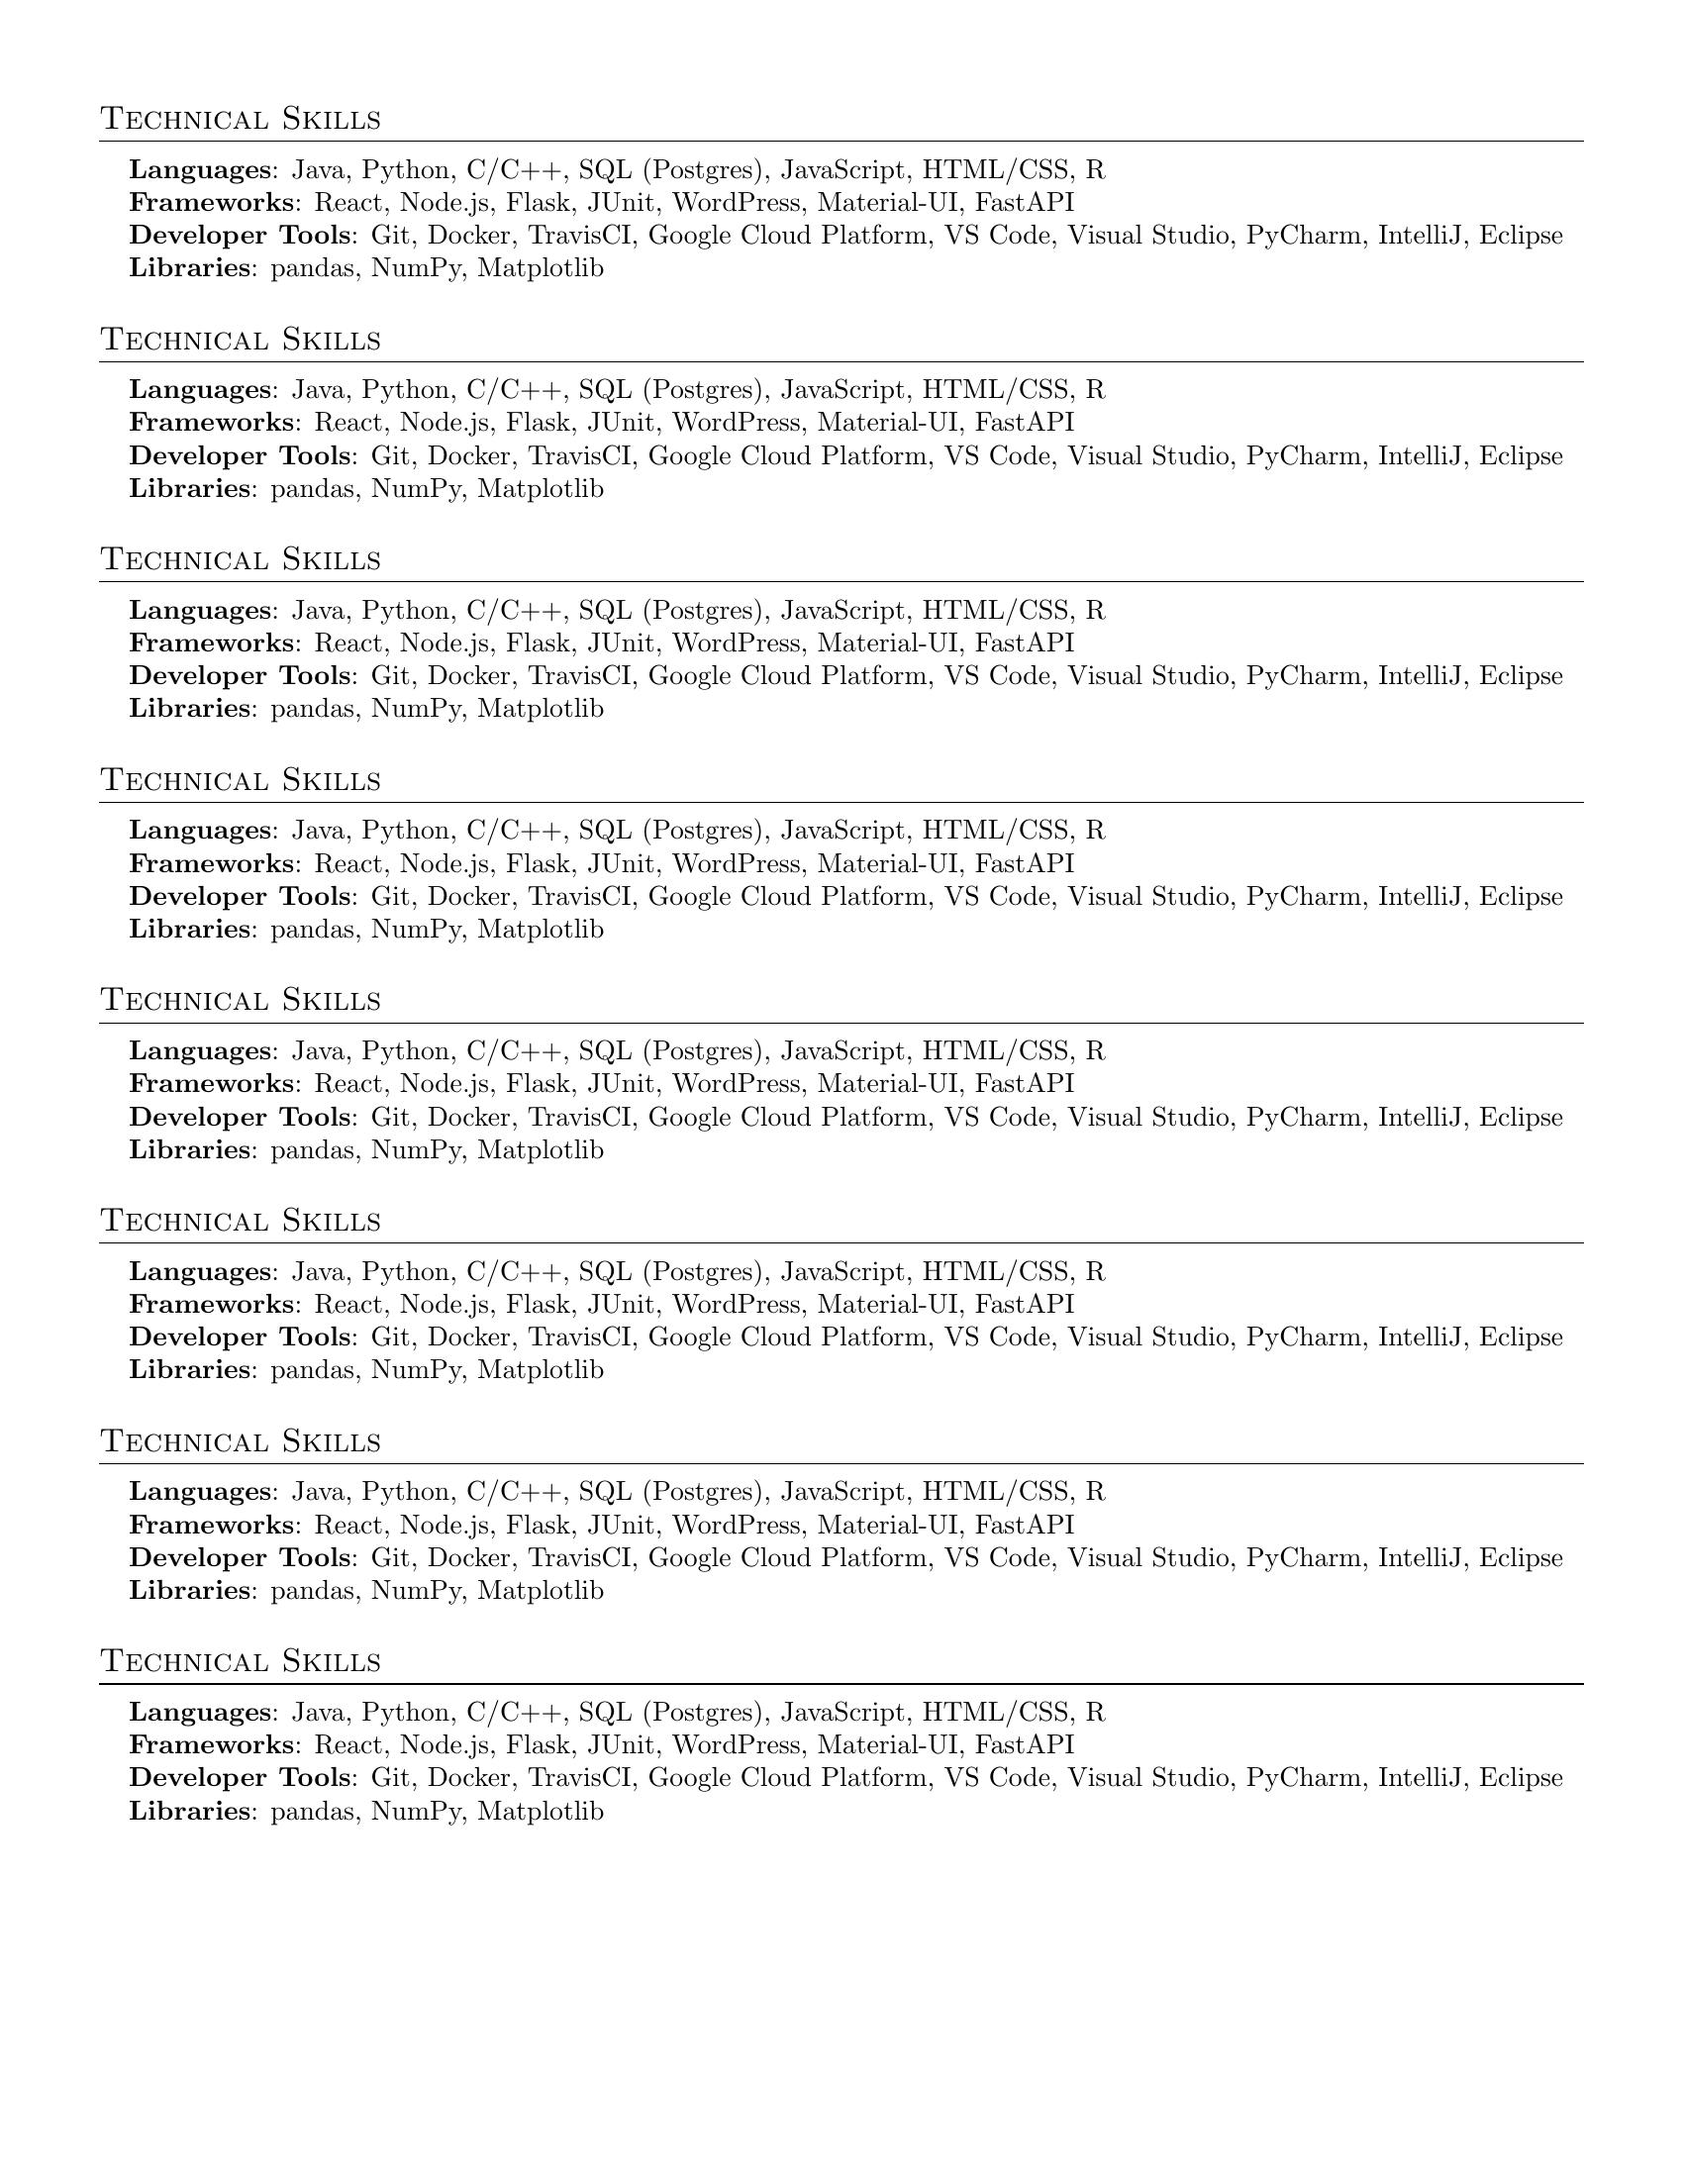
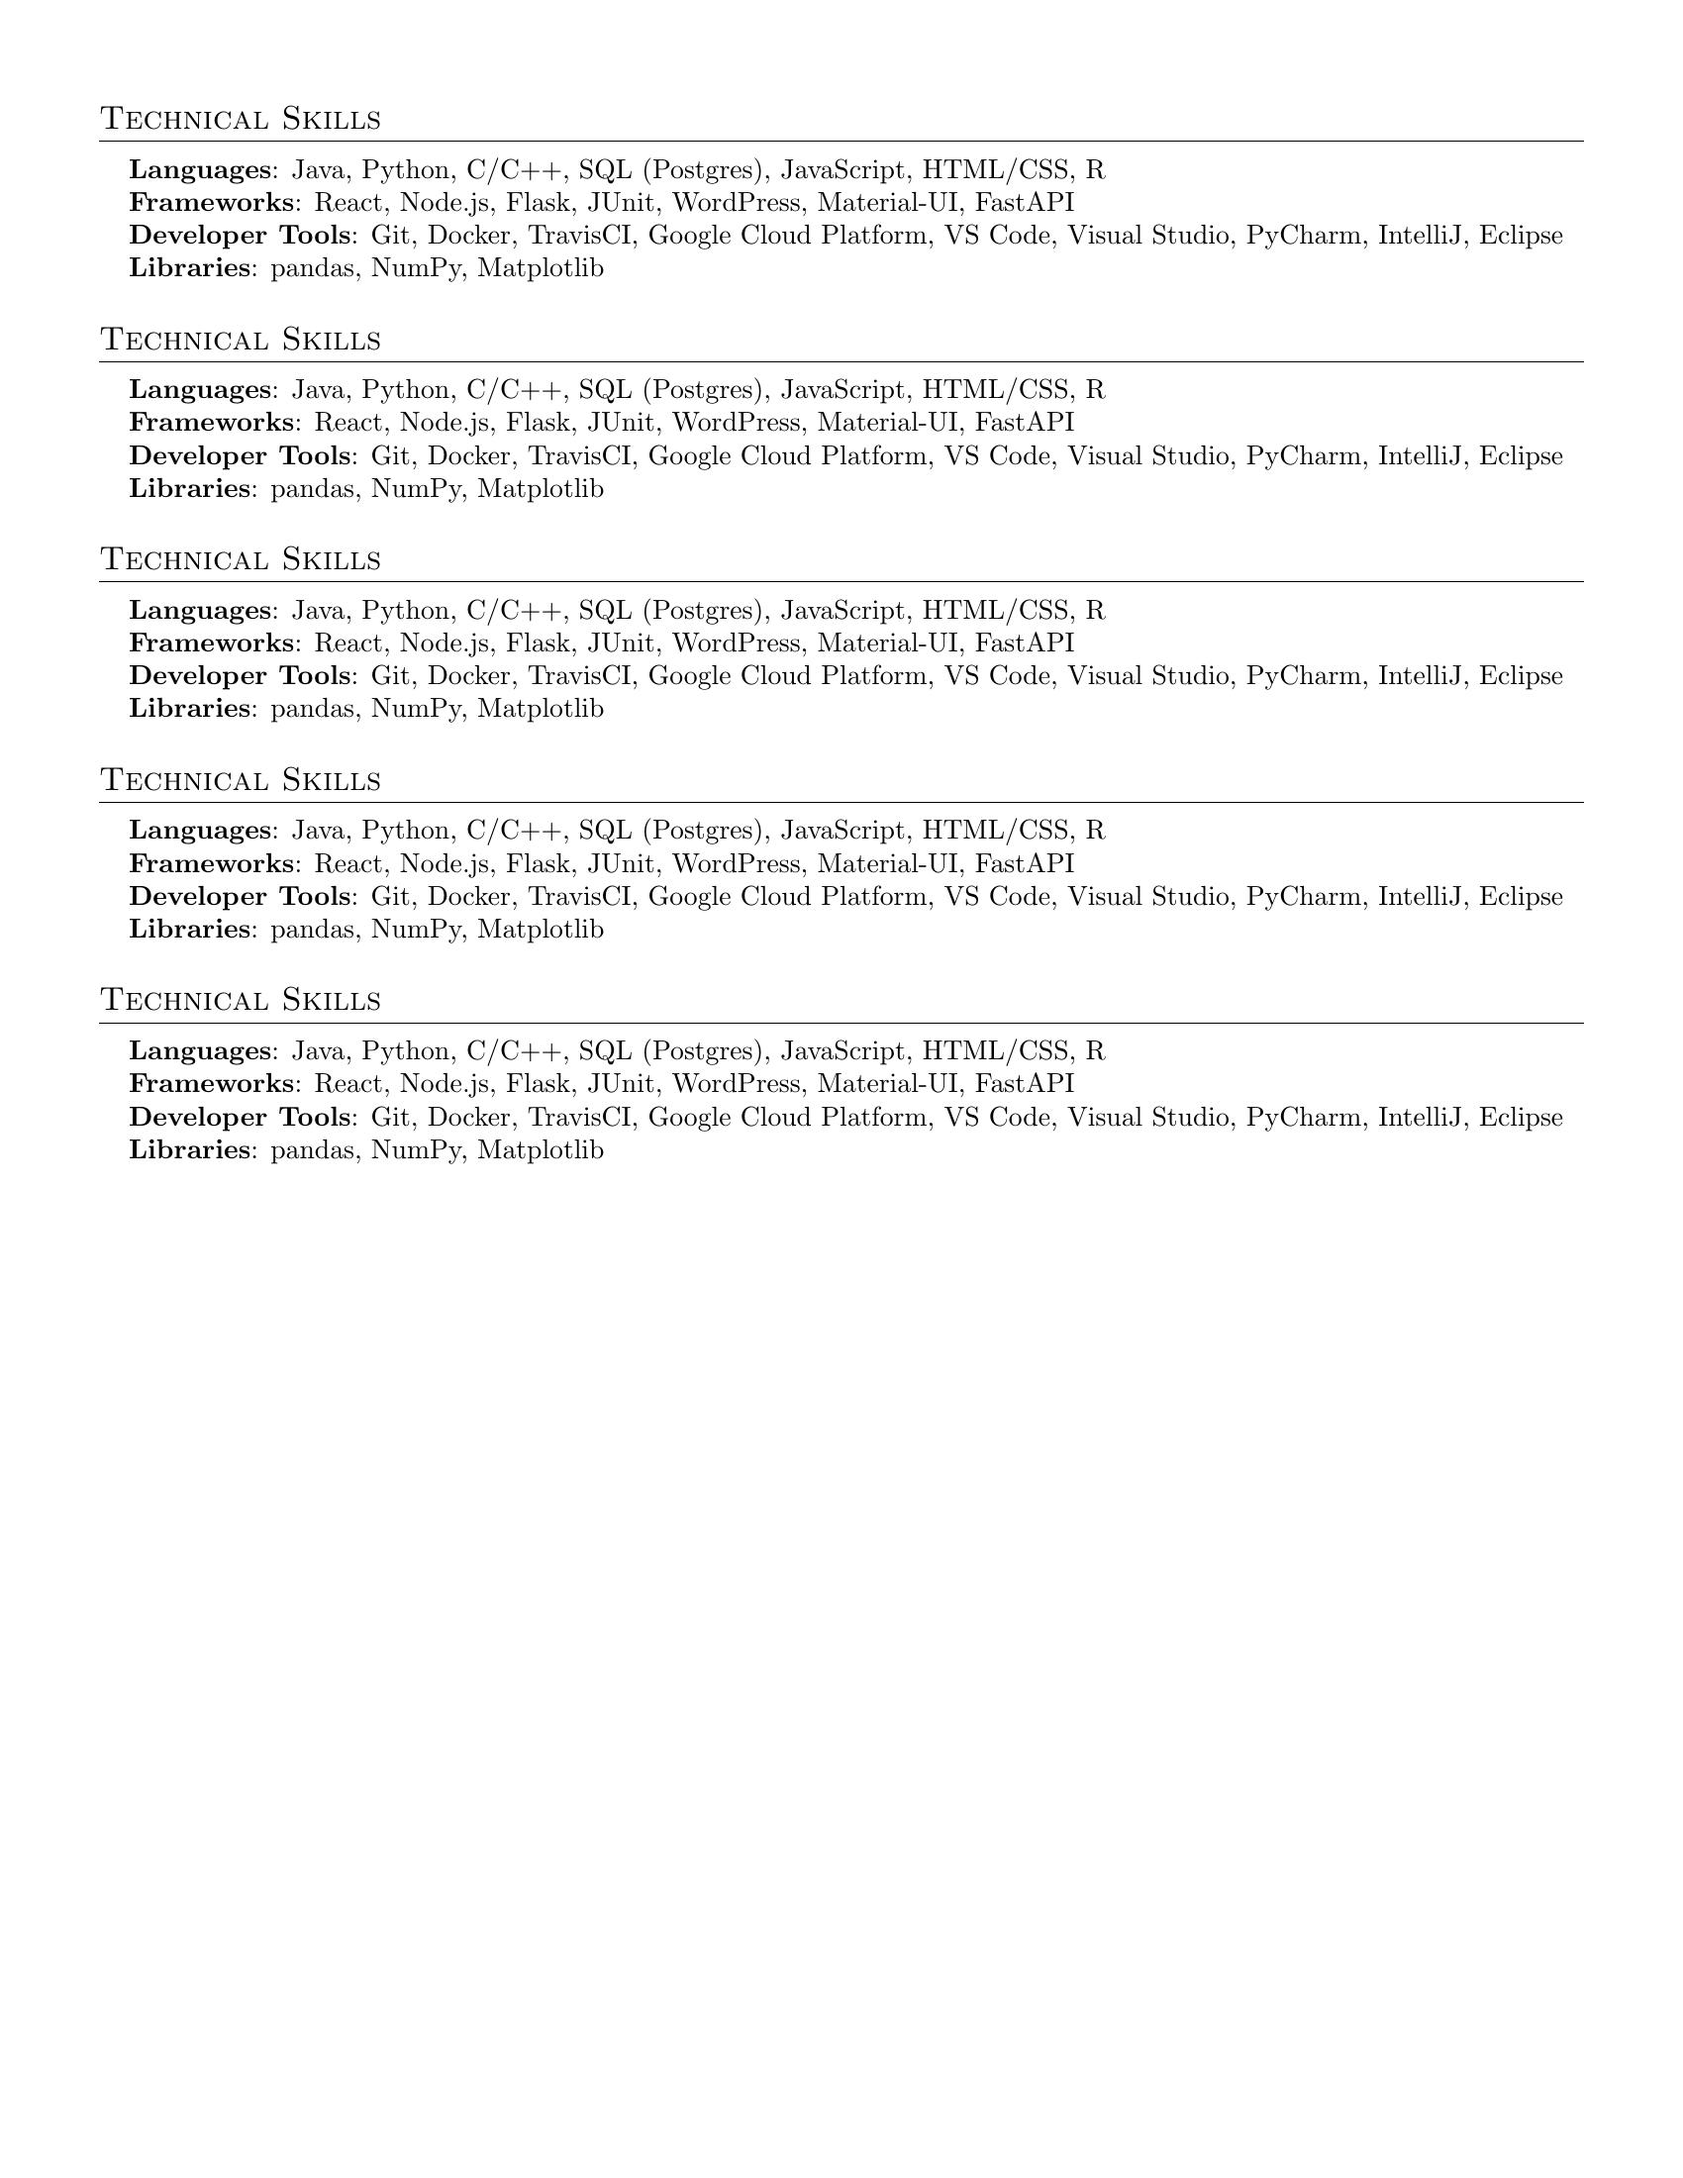
testing hook

diff --git a/main.tex b/main.tex
@@ -212,7 +212,6 @@
      \textbf{Libraries}{: pandas, NumPy, Matplotlib}
     }}
  \end{itemize}
-%
 %-----------PROGRAMMING SKILLS-----------
 \section{Technical Skills}
  \begin{itemize}[leftmargin=0.15in, label={}]
@@ -222,96 +221,51 @@
      \textbf{Developer Tools}{: Git, Docker, TravisCI, Google Cloud Platform, VS Code, Visual Studio, PyCharm, IntelliJ, Eclipse} \\
      \textbf{Libraries}{: pandas, NumPy, Matplotlib}
     }}
- \end{itemize}%
-%-----------PROGRAMMING SKILLS-----------
-\section{Technical Skills}
- \begin{itemize}[leftmargin=0.15in, label={}]
-    \small{\item{
-     \textbf{Languages}{: Java, Python, C/C++, SQL (Postgres), JavaScript, HTML/CSS, R} \\
-     \textbf{Frameworks}{: React, Node.js, Flask, JUnit, WordPress, Material-UI, FastAPI} \\
-     \textbf{Developer Tools}{: Git, Docker, TravisCI, Google Cloud Platform, VS Code, Visual Studio, PyCharm, IntelliJ, Eclipse} \\
-     \textbf{Libraries}{: pandas, NumPy, Matplotlib}
-    }}
- \end{itemize}
-%-----------PROGRAMMING SKILLS-----------
-\section{Technical Skills}
- \begin{itemize}[leftmargin=0.15in, label={}]
-    \small{\item{
-     \textbf{Languages}{: Java, Python, C/C++, SQL (Postgres), JavaScript, HTML/CSS, R} \\
-     \textbf{Frameworks}{: React, Node.js, Flask, JUnit, WordPress, Material-UI, FastAPI} \\
-     \textbf{Developer Tools}{: Git, Docker, TravisCI, Google Cloud Platform, VS Code, Visual Studio, PyCharm, IntelliJ, Eclipse} \\
-     \textbf{Libraries}{: pandas, NumPy, Matplotlib}
-    }}
- \end{itemize}
-
- %-----------PROGRAMMING SKILLS-----------
-\section{Technical Skills}
-\begin{itemize}[leftmargin=0.15in, label={}]
-   \small{\item{
-    \textbf{Languages}{: Java, Python, C/C++, SQL (Postgres), JavaScript, HTML/CSS, R} \\
-    \textbf{Frameworks}{: React, Node.js, Flask, JUnit, WordPress, Material-UI, FastAPI} \\
-    \textbf{Developer Tools}{: Git, Docker, TravisCI, Google Cloud Platform, VS Code, Visual Studio, PyCharm, IntelliJ, Eclipse} \\
-    \textbf{Libraries}{: pandas, NumPy, Matplotlib}
-   }}
-\end{itemize}
-
-%-----------PROGRAMMING SKILLS-----------
-\section{Technical Skills}
- \begin{itemize}[leftmargin=0.15in, label={}]
-    \small{\item{
-     \textbf{Languages}{: Java, Python, C/C++, SQL (Postgres), JavaScript, HTML/CSS, R} \\
-     \textbf{Frameworks}{: React, Node.js, Flask, JUnit, WordPress, Material-UI, FastAPI} \\
-     \textbf{Developer Tools}{: Git, Docker, TravisCI, Google Cloud Platform, VS Code, Visual Studio, PyCharm, IntelliJ, Eclipse} \\
-     \textbf{Libraries}{: pandas, NumPy, Matplotlib}
-    }}
- \end{itemize}
-
- %-----------PROGRAMMING SKILLS-----------
-\section{Technical Skills}
-\begin{itemize}[leftmargin=0.15in, label={}]
-   \small{\item{
-    \textbf{Languages}{: Java, Python, C/C++, SQL (Postgres), JavaScript, HTML/CSS, R} \\
-    \textbf{Frameworks}{: React, Node.js, Flask, JUnit, WordPress, Material-UI, FastAPI} \\
-    \textbf{Developer Tools}{: Git, Docker, TravisCI, Google Cloud Platform, VS Code, Visual Studio, PyCharm, IntelliJ, Eclipse} \\
-    \textbf{Libraries}{: pandas, NumPy, Matplotlib}
-   }}
-\end{itemize}
-
-%-----------PROGRAMMING SKILLS-----------
-\section{Technical Skills}
- \begin{itemize}[leftmargin=0.15in, label={}]
-    \small{\item{
-     \textbf{Languages}{: Java, Python, C/C++, SQL (Postgres), JavaScript, HTML/CSS, R} \\
-     \textbf{Frameworks}{: React, Node.js, Flask, JUnit, WordPress, Material-UI, FastAPI} \\
-     \textbf{Developer Tools}{: Git, Docker, TravisCI, Google Cloud Platform, VS Code, Visual Studio, PyCharm, IntelliJ, Eclipse} \\
-     \textbf{Libraries}{: pandas, NumPy, Matplotlib}
-    }}
- \end{itemize}
-
- %-----------PROGRAMMING SKILLS-----------
-\section{Technical Skills}
-\begin{itemize}[leftmargin=0.15in, label={}]
-   \small{\item{
-    \textbf{Languages}{: Java, Python, C/C++, SQL (Postgres), JavaScript, HTML/CSS, R} \\
-    \textbf{Frameworks}{: React, Node.js, Flask, JUnit, WordPress, Material-UI, FastAPI} \\
-    \textbf{Developer Tools}{: Git, Docker, TravisCI, Google Cloud Platform, VS Code, Visual Studio, PyCharm, IntelliJ, Eclipse} \\
-    \textbf{Libraries}{: pandas, NumPy, Matplotlib}
-   }}
-\end{itemize}
-
-%-----------PROGRAMMING SKILLS-----------
-\section{Technical Skills}
- \begin{itemize}[leftmargin=0.15in, label={}]
-    \small{\item{
-     \textbf{Languages}{: Java, Python, C/C++, SQL (Postgres), JavaScript, HTML/CSS, R} \\
-     \textbf{Frameworks}{: React, Node.js, Flask, JUnit, WordPress, Material-UI, FastAPI} \\
-     \textbf{Developer Tools}{: Git, Docker, TravisCI, Google Cloud Platform, VS Code, Visual Studio, PyCharm, IntelliJ, Eclipse} \\
-     \textbf{Libraries}{: pandas, NumPy, Matplotlib}
-    }}
- \end{itemize}
-
- 
-
-
+ \end{itemize}%-----------PROGRAMMING SKILLS-----------
+ \section{Technical Skills}
+  \begin{itemize}[leftmargin=0.15in, label={}]
+     \small{\item{
+      \textbf{Languages}{: Java, Python, C/C++, SQL (Postgres), JavaScript, HTML/CSS, R} \\
+      \textbf{Frameworks}{: React, Node.js, Flask, JUnit, WordPress, Material-UI, FastAPI} \\
+      \textbf{Developer Tools}{: Git, Docker, TravisCI, Google Cloud Platform, VS Code, Visual Studio, PyCharm, IntelliJ, Eclipse} \\
+      \textbf{Libraries}{: pandas, NumPy, Matplotlib}
+     }}
+  \end{itemize}%-----------PROGRAMMING SKILLS-----------
+  \section{Technical Skills}
+   \begin{itemize}[leftmargin=0.15in, label={}]
+      \small{\item{
+       \textbf{Languages}{: Java, Python, C/C++, SQL (Postgres), JavaScript, HTML/CSS, R} \\
+       \textbf{Frameworks}{: React, Node.js, Flask, JUnit, WordPress, Material-UI, FastAPI} \\
+       \textbf{Developer Tools}{: Git, Docker, TravisCI, Google Cloud Platform, VS Code, Visual Studio, PyCharm, IntelliJ, Eclipse} \\
+       \textbf{Libraries}{: pandas, NumPy, Matplotlib}
+      }}
+   \end{itemize}%-----------PROGRAMMING SKILLS-----------
+   \section{Technical Skills}
+    \begin{itemize}[leftmargin=0.15in, label={}]
+       \small{\item{
+        \textbf{Languages}{: Java, Python, C/C++, SQL (Postgres), JavaScript, HTML/CSS, R} \\
+        \textbf{Frameworks}{: React, Node.js, Flask, JUnit, WordPress, Material-UI, FastAPI} \\
+        \textbf{Developer Tools}{: Git, Docker, TravisCI, Google Cloud Platform, VS Code, Visual Studio, PyCharm, IntelliJ, Eclipse} \\
+        \textbf{Libraries}{: pandas, NumPy, Matplotlib}
+       }}
+    \end{itemize}%-----------PROGRAMMING SKILLS-----------
+    \section{Technical Skills}
+     \begin{itemize}[leftmargin=0.15in, label={}]
+        \small{\item{
+         \textbf{Languages}{: Java, Python, C/C++, SQL (Postgres), JavaScript, HTML/CSS, R} \\
+         \textbf{Frameworks}{: React, Node.js, Flask, JUnit, WordPress, Material-UI, FastAPI} \\
+         \textbf{Developer Tools}{: Git, Docker, TravisCI, Google Cloud Platform, VS Code, Visual Studio, PyCharm, IntelliJ, Eclipse} \\
+         \textbf{Libraries}{: pandas, NumPy, Matplotlib}
+        }}
+     \end{itemize}%-----------PROGRAMMING SKILLS-----------
+     \section{Technical Skills}
+      \begin{itemize}[leftmargin=0.15in, label={}]
+         \small{\item{
+          \textbf{Languages}{: Java, Python, C/C++, SQL (Postgres), JavaScript, HTML/CSS, R} \\
+          \textbf{Frameworks}{: React, Node.js, Flask, JUnit, WordPress, Material-UI, FastAPI} \\
+          \textbf{Developer Tools}{: Git, Docker, TravisCI, Google Cloud Platform, VS Code, Visual Studio, PyCharm, IntelliJ, Eclipse} \\
+          \textbf{Libraries}{: pandas, NumPy, Matplotlib}
+         }}
+      \end{itemize}
 %-------------------------------------------
 \end{document}

diff --git a/convert_resume_to_png.py b/convert_resume_to_png.py
@@ -1,8 +1,14 @@
 
 # import module
 from pdf2image import convert_from_path
+import os
+import glob
 
 RESUME_FOLDER = './output'
+
+files = glob.glob(RESUME_FOLDER + '/*')
+for f in files:
+    os.remove(f)
 
 # Clear readme
 file = open("README.md","w")
@@ -11,7 +17,7 @@ file.close()
 
 # Store Pdf with convert_from_path function
 images = convert_from_path('main.pdf')
-#  ![Resume](https://github.com/asultan123/Resume/blob/master/output/page0.jpg)
+
 for i in range(len(images)):
     images[i].save(RESUME_FOLDER + '/page'+ str(i) +'.jpg', 'JPEG')
     with open('./README.md', 'a') as md_file:
